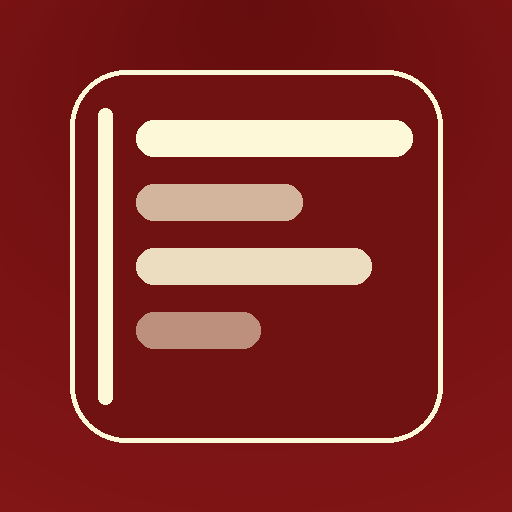
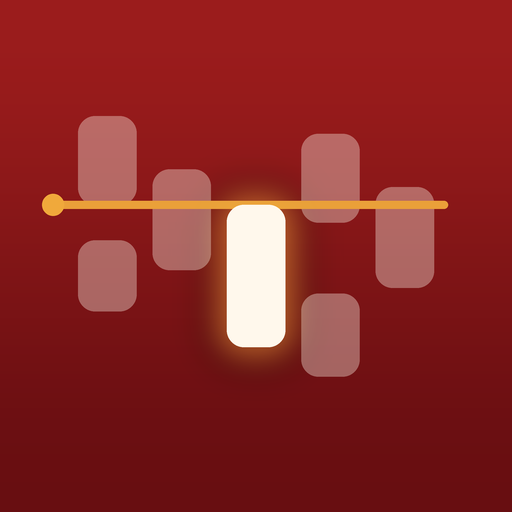
New home screen emblem: the week grid with the live class lit

diff --git a/make_icon.py b/make_icon.py
@@ -1,0 +1,119 @@
+"""Regenerates icon.png, the home screen emblem.
+
+A week grid with the class you are in right now lit up and a time marker
+across it, which is the one idea the whole app is built around. Colours are
+the app's own: crimson field, cream blocks, amber marker.
+
+    python make_icon.py
+
+Then run build.py to copy it into b/ and c/.
+"""
+from PIL import Image, ImageDraw, ImageFilter
+
+S = 512           # shipped size
+X = 4             # supersample factor
+N = S * X
+
+CRIMSON_TOP = (155, 28, 28)     # #9b1c1c
+CRIMSON_BOT = (104, 14, 17)     # deeper, for the gradient
+CREAM = (255, 248, 236)         # #fff8ec
+AMBER = (240, 169, 59)          # #f0a93b
+
+
+def px(v):
+    """512-space coordinate to supersampled canvas."""
+    return v * X
+
+
+def background():
+    """Vertical crimson gradient, drawn a row at a time."""
+    img = Image.new('RGB', (N, N), CRIMSON_TOP)
+    d = ImageDraw.Draw(img)
+    for y in range(N):
+        t = y / (N - 1)
+        # ease so the top stays rich longer than a straight ramp
+        t = t * t * (3 - 2 * t)
+        d.line(
+            [(0, y), (N, y)],
+            fill=tuple(
+                round(a + (b - a) * t)
+                for a, b in zip(CRIMSON_TOP, CRIMSON_BOT)
+            ),
+        )
+    return img
+
+
+# Grid geometry in 512-space. Sized to fill the frame, since iOS masks the
+# corners off anyway and a small mark just looks lost on a home screen.
+LEFT, RIGHT = 78, 434
+TOP, BOT = 116, 412
+COLS = 5
+GAP = 16
+COLW = (RIGHT - LEFT - GAP * (COLS - 1)) / COLS
+H = BOT - TOP
+RADIUS = 17
+
+# (column, start, end) as fractions of the grid height.
+QUIET = [
+    (0, 0.00, 0.30), (0, 0.42, 0.66),
+    (1, 0.18, 0.52),
+    (3, 0.06, 0.36), (3, 0.60, 0.88),
+    (4, 0.24, 0.58),
+]
+NOW = (2, 0.30, 0.78)
+MARKER_Y = TOP + 0.30 * H
+
+
+def block_box(col, a, b, bleed=0):
+    x0 = LEFT + col * (COLW + GAP)
+    return [
+        px(x0 - bleed), px(TOP + a * H - bleed),
+        px(x0 + COLW + bleed), px(TOP + b * H + bleed),
+    ]
+
+
+def main():
+    img = background().convert('RGBA')
+
+    # Warm glow behind the live block, so it reads as lit rather than painted.
+    glow = Image.new('RGBA', (N, N), (0, 0, 0, 0))
+    ImageDraw.Draw(glow).rounded_rectangle(
+        block_box(*NOW, bleed=20), radius=px(RADIUS + 20),
+        fill=AMBER + (120,),
+    )
+    glow = glow.filter(ImageFilter.GaussianBlur(px(16)))
+    img = Image.alpha_composite(img, glow)
+
+    layer = Image.new('RGBA', (N, N), (0, 0, 0, 0))
+    d = ImageDraw.Draw(layer)
+
+    # The rest of the week, present but receded. Bright enough to still read
+    # as a grid at 40px, where anything fainter turns to mud.
+    for col, a, b in QUIET:
+        d.rounded_rectangle(
+            block_box(col, a, b), radius=px(RADIUS), fill=CREAM + (92,)
+        )
+
+    # Time marker, edge to edge, with a dot anchoring it on the left. Kept
+    # deliberately thick; a hairline disappears at home screen size.
+    my = px(MARKER_Y)
+    d.rounded_rectangle(
+        [px(LEFT - 24), my - px(4), px(RIGHT + 14), my + px(4)],
+        radius=px(4), fill=AMBER + (240,),
+    )
+    d.ellipse(
+        [px(LEFT - 36), my - px(11), px(LEFT - 14), my + px(11)], fill=AMBER
+    )
+
+    # Now.
+    d.rounded_rectangle(block_box(*NOW), radius=px(RADIUS), fill=CREAM)
+
+    img = Image.alpha_composite(img, layer)
+    img.convert('RGB').resize((S, S), Image.LANCZOS).save(
+        'icon.png', optimize=True
+    )
+    print('wrote icon.png')
+
+
+if __name__ == '__main__':
+    main()

diff --git a/README.md b/README.md
@@ -128,6 +128,7 @@ data/b.js         Schedule B course data
 data/c.js         Schedule C course data
 build.py          regenerates b/ and c/ and the shared free-time map
 icon.png          512px home screen icon, copied into b/ and c/
+make_icon.py      redraws icon.png; run build.py after to copy it across
 ```
 
 ## Browser support
